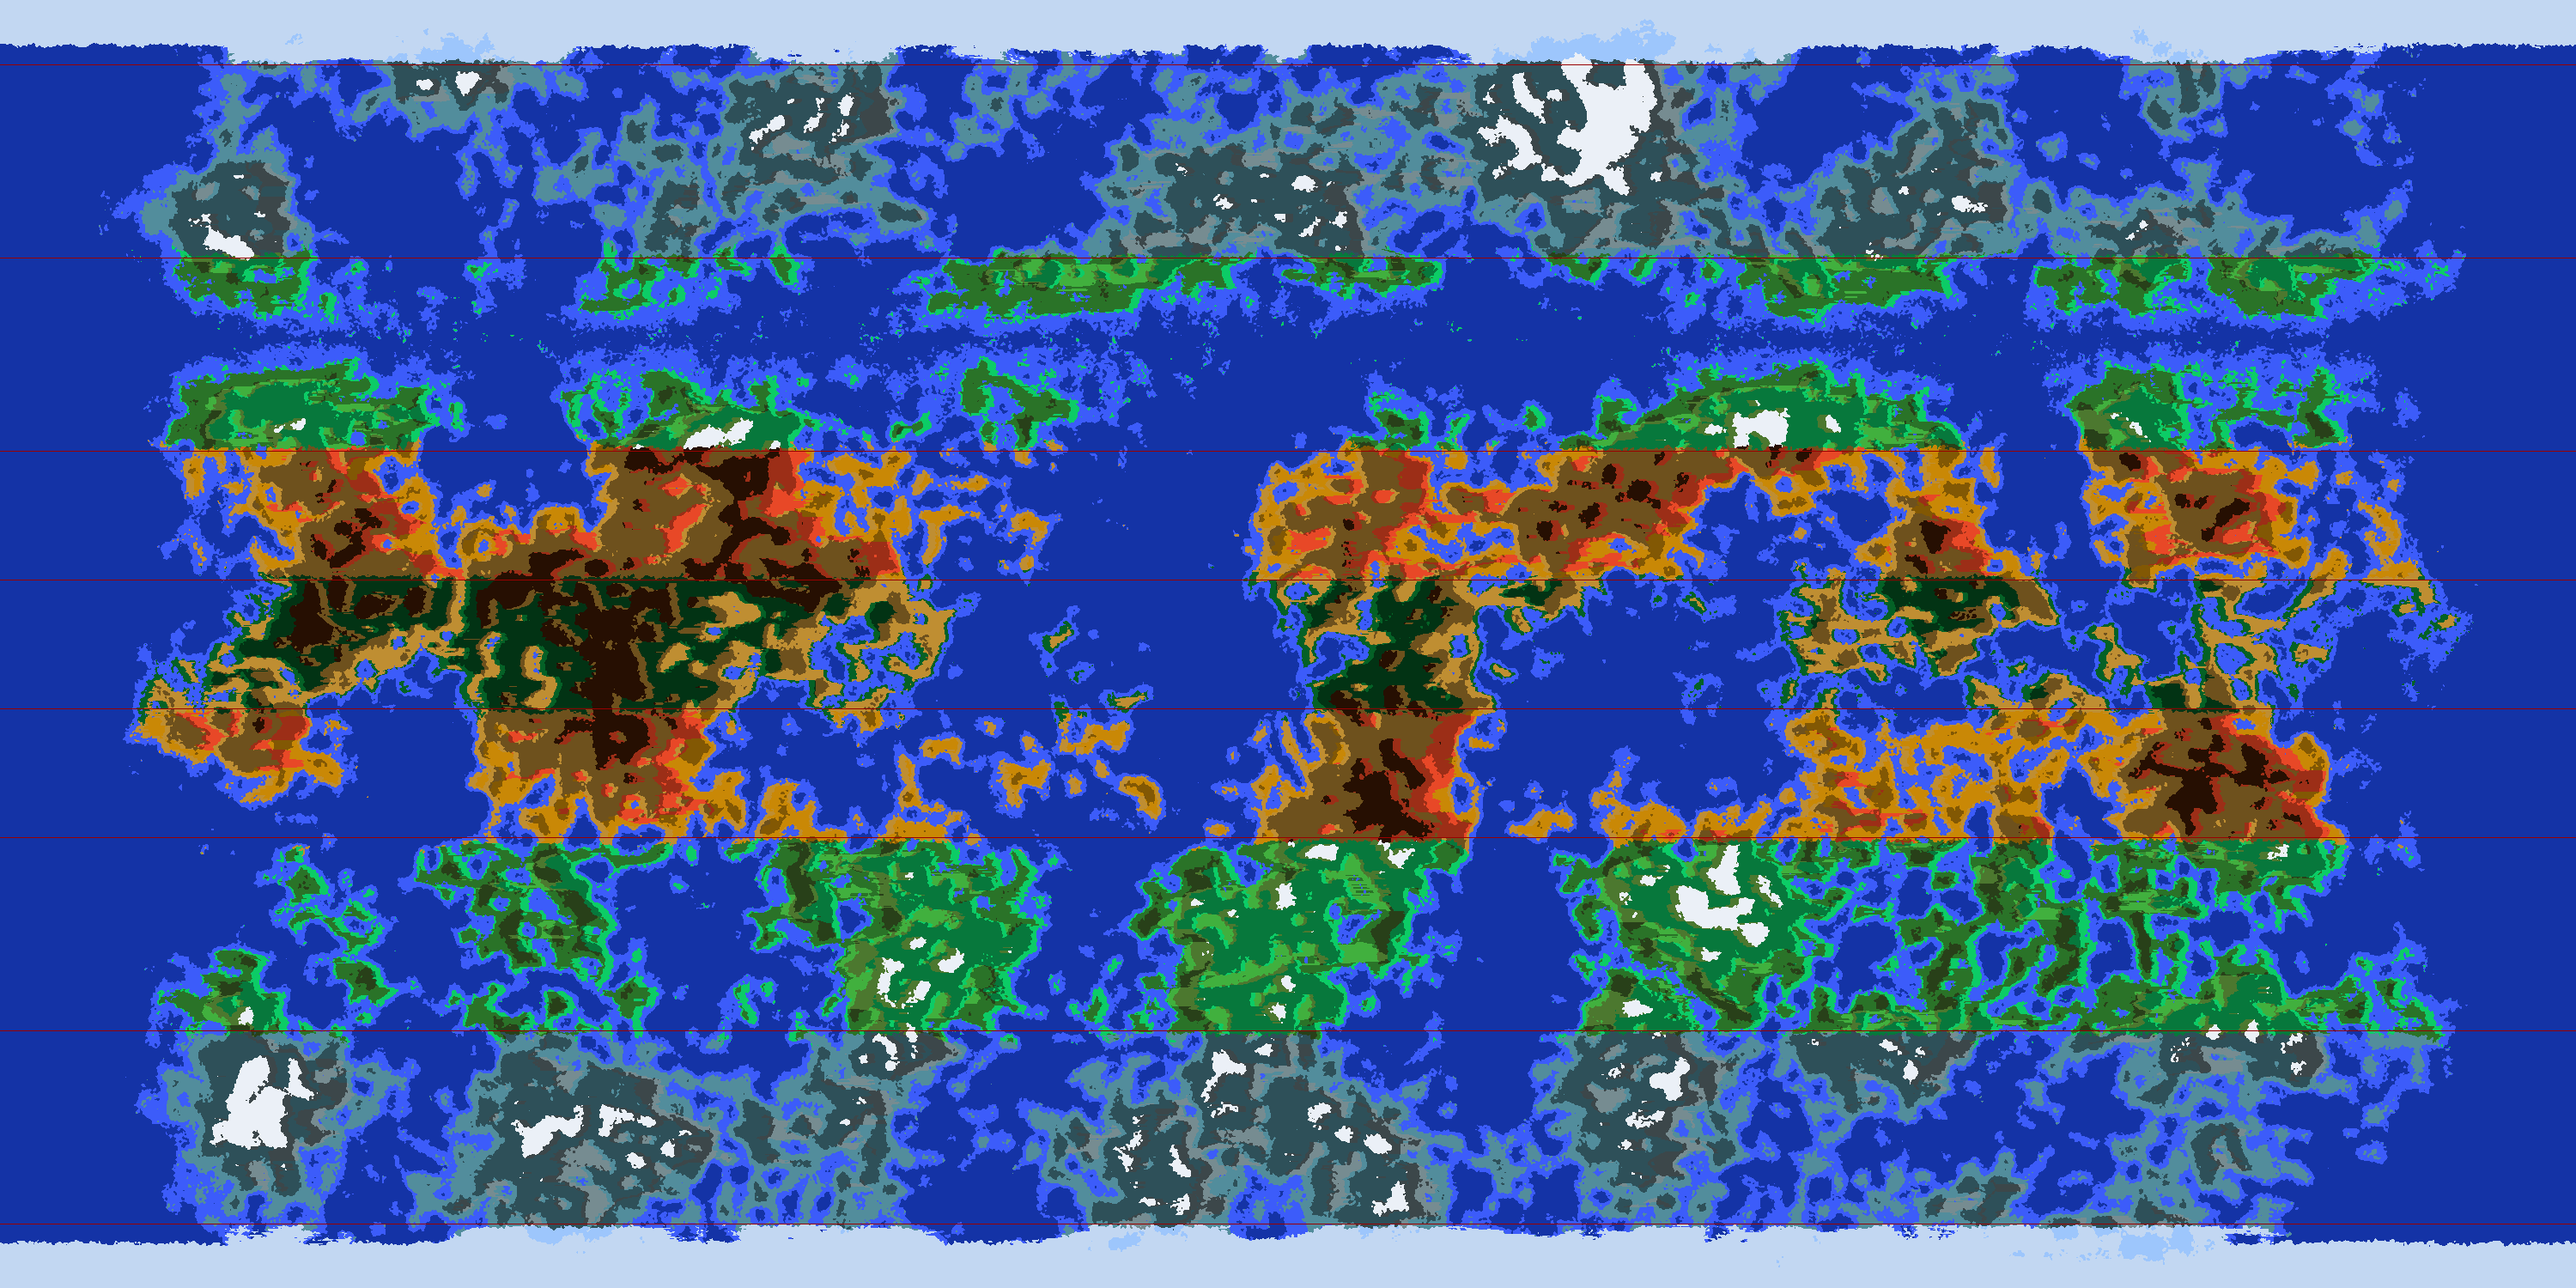
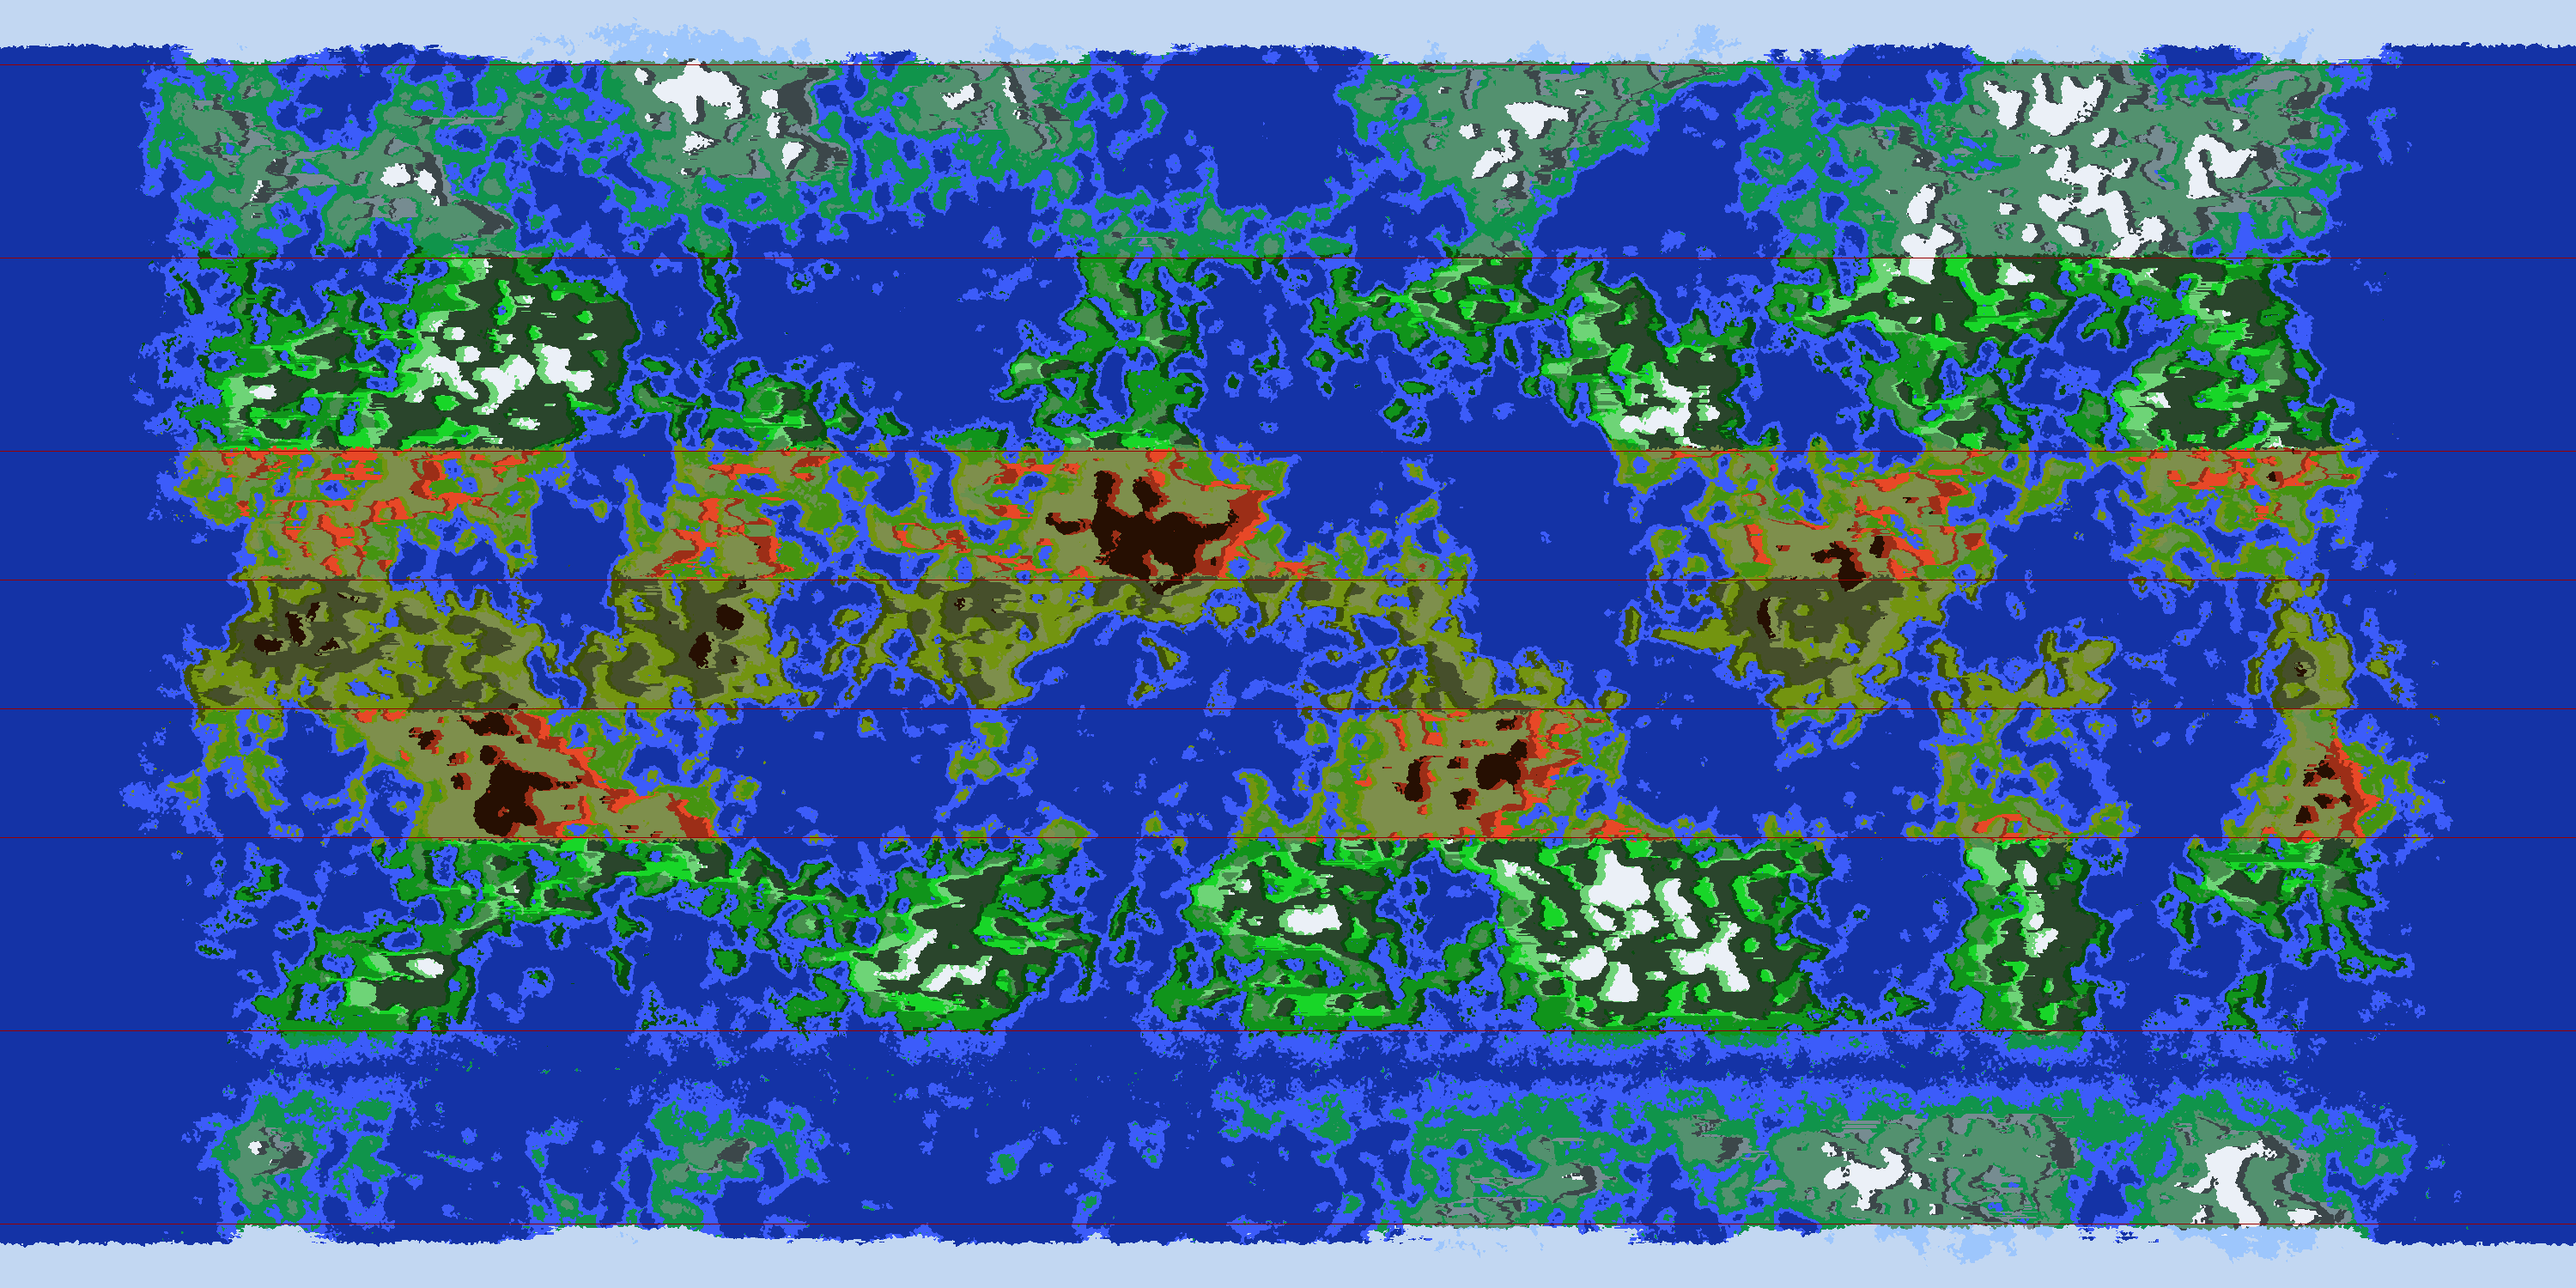
Color-changes on map

diff --git a/src/com/fredrik/worldGenerator/tile/TileInturpetation.java b/src/com/fredrik/worldGenerator/tile/TileInturpetation.java
@@ -376,24 +376,24 @@ public class TileInturpetation {
             case 111, 112, 113, 211, 212, 213, 311, 312, 313 -> {return 0xc2d7f2;}  // Glacier
             case 123,  133, 143, 153 -> {return 0x1433a6;}  // Deep Water
             case 223, 233, 243, 253 -> {return 0x3c5cfa;}  // Coastal Water
-            case 322, 323 -> {return 0x528d9c;} // Lowland Tundra
-            case 422, 423 -> {return 0x2e5059;} // Highlands Tundra
+            case 322, 323 -> {return 0x10944b;} // Lowland Tundra
+            case 422, 423 -> {return 0x53916f;} // Highlands Tundra
             case 321 -> {return 0x768c91;} // Cold Desert
             case 421 -> {return 0x3c474a;} // Cold Desert Hills
-            case 331 -> {return 0x41b03e;}  // Temperate Lowlands Plains
-            case 332 -> {return 0x2a7328;}  // Temperate Forest
-            case 431 -> {return 0x4c782f;}  // Highland Hills
-            case 432 -> {return 0x284019;}  // Temperate Highland Forest
-            case 333 -> {return 0x0ccc66;}  // Temperate Rainforest
-            case 433 -> {return 0x07783c;}  // Temperate Highland Rainforest
+            case 331 -> {return 0x18d628;}  // Temperate Lowlands Plains
+            case 332 -> {return 0x10941b;}  // Temperate Forest
+            case 431 -> {return 0x6ed477;}  // Highland Hills
+            case 432 -> {return 0x498f4f;}  // Temperate Highland Forest
+            case 333 -> {return 0x084d0e;}  // Temperate Rainforest
+            case 433 -> {return 0x2a452c;}  // Temperate Highland Rainforest
             case 341 -> {return 0xe84827;} // Hot Desert
             case 441 -> {return 0x9c2e17;} // Hot Desert Hills
-            case 342 -> {return 0xc98806;} // Hot Steppe
-            case 442 -> {return 0x825804;} // Hot Steppe hills
-            case 351, 352, 343 -> {return 0xbf8e32;} // Tropical Savanna
-            case 451, 452, 443 -> {return 0x6e511d;} // Tropical Savanna Hills
-            case 353 -> {return 0x046126;} // Tropical Rainforest
-            case 453 -> {return 0x023314;} // Tropical Rainforest Hills
+            case 342 -> {return 0x459410;} // Hot Steppe
+            case 442 -> {return 0x69914e;} // Hot Steppe hills
+            case 351, 352, 343 -> {return 0x739410;} // Tropical Savanna
+            case 451, 452, 443 -> {return 0x7e8f4c;} // Tropical Savanna Hills
+            case 353 -> {return 0x3f5209;} // Tropical Rainforest
+            case 453 -> {return 0x464f2b;} // Tropical Rainforest Hills
             case 411, 412, 413 -> {return 0x9dc6fc;} // Glacial Heights
             case 511, 521, 531 -> {return 0xebf0f7;} // Frozen Mountains
             case 541, 551 -> {return 0x260f02;}  // Mountains
